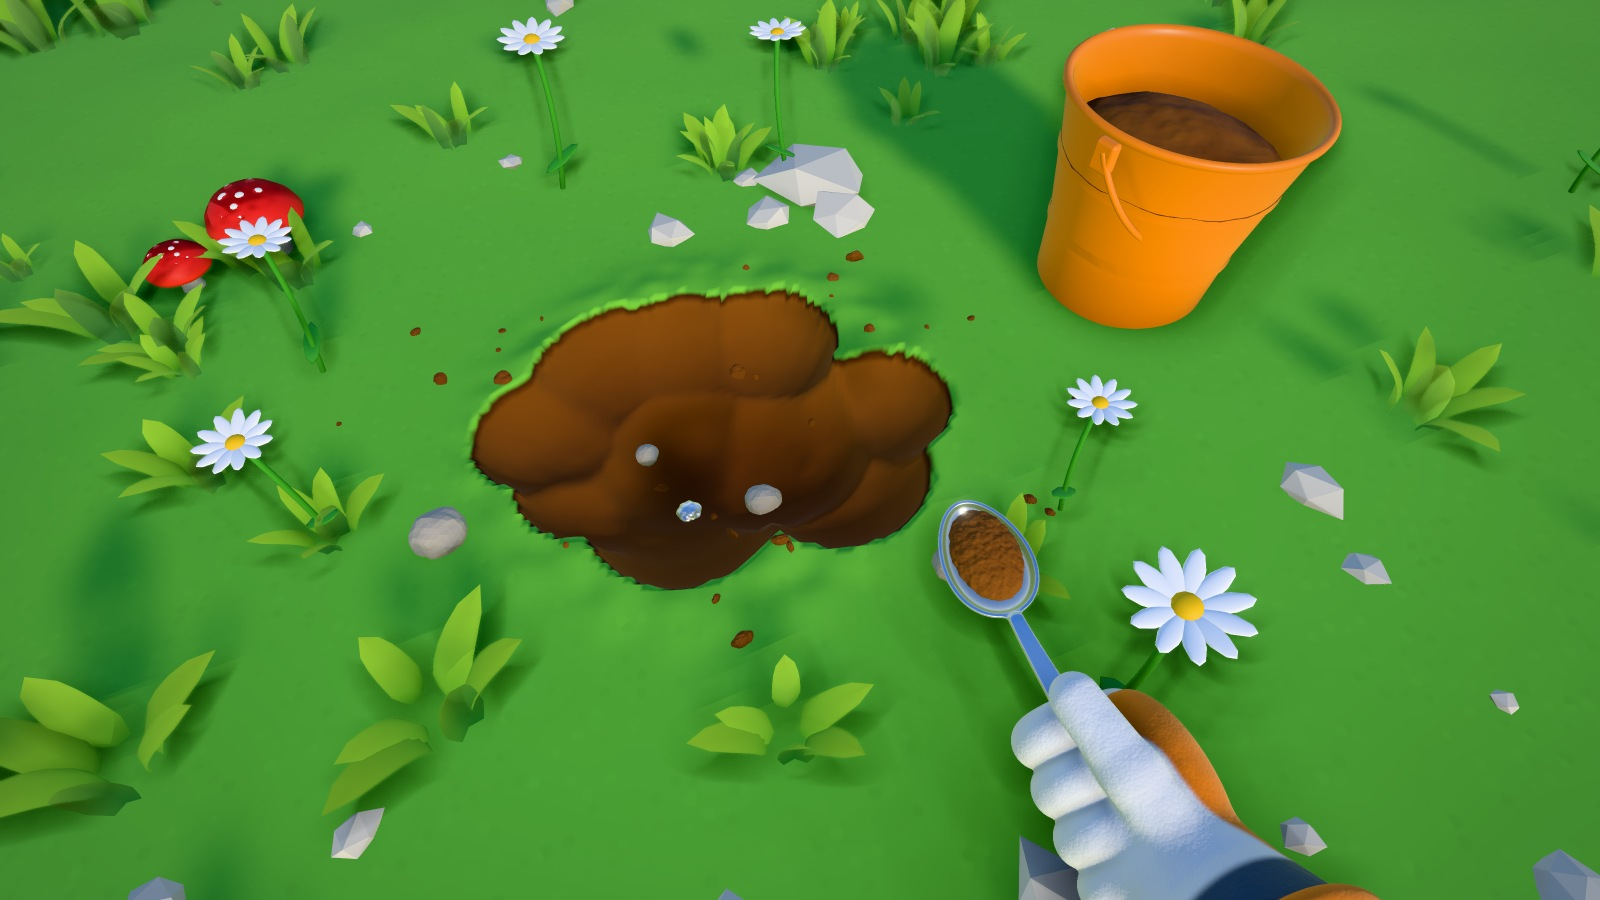
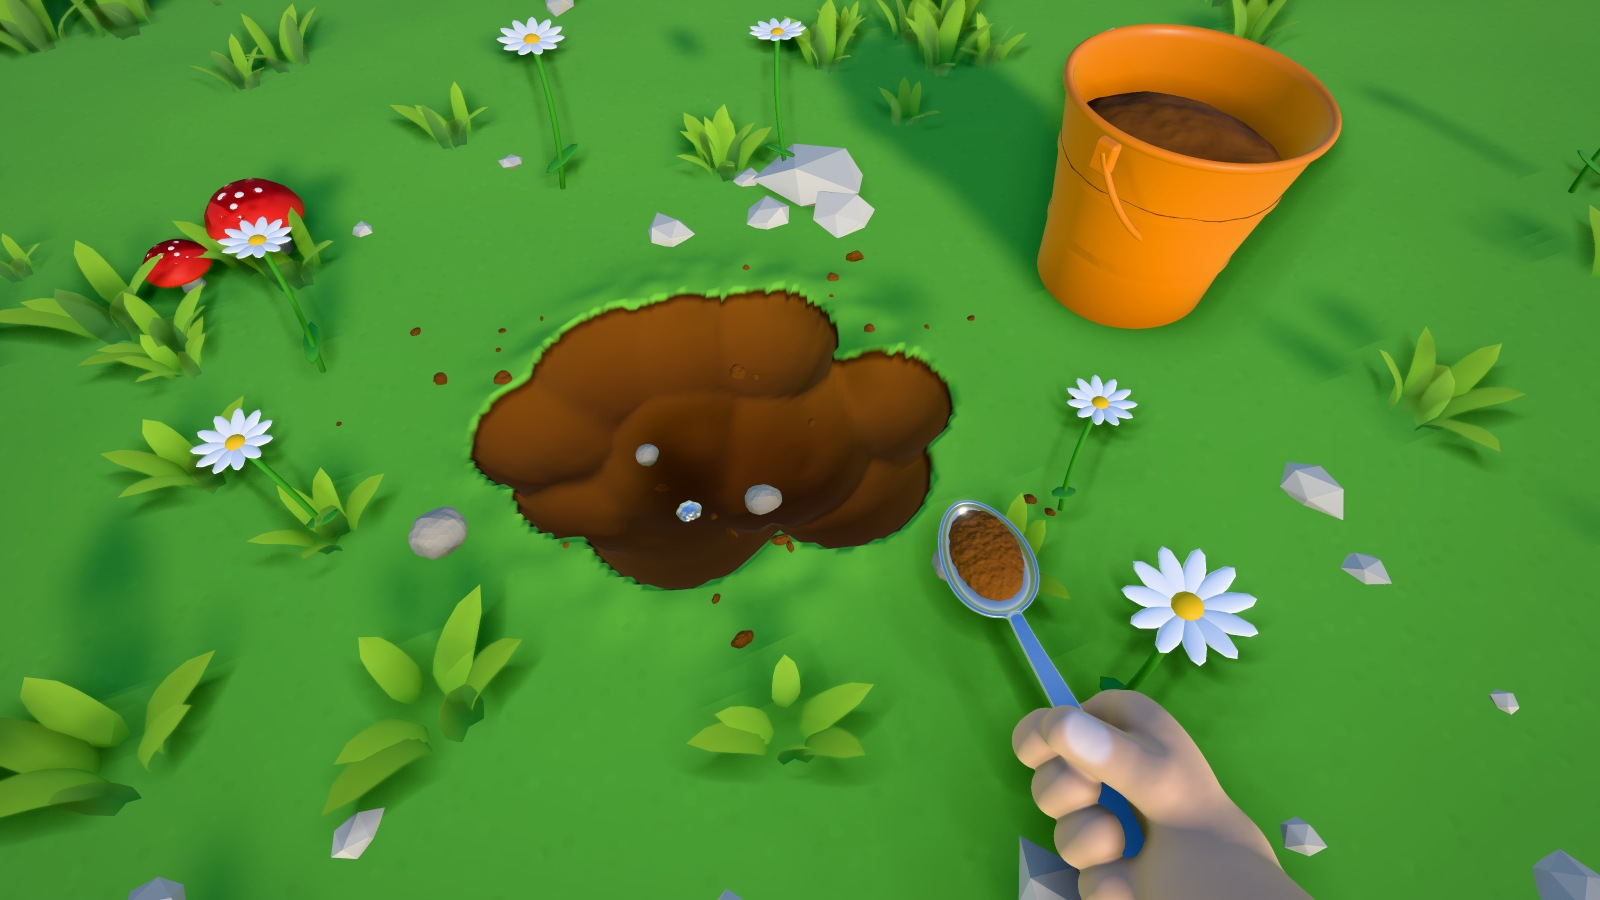
Endless Digging look-dev: bare hand that visibly grips the spoon instead of a glove
Claude-Session: https://claude.ai/code/session_01GYaWwV9t9vHY2oQp28BKGx

Changed region(s): [[0.625, 0.7467, 0.875, 1.0]]

diff --git a/endless-digging/lookdev/assets.js b/endless-digging/lookdev/assets.js
@@ -24,58 +24,54 @@
   const HAND = { w: (() => { const v = [0.10, 0.60, 0.79], l = Math.hypot(v[0], v[1], v[2]); return v.map(c => c / l); })(), Wc: [0.012, 0.022, 0.048], G: 1.16, SP: 1.32 };
   A.HAND = HAND;
   A.glove = function (pal) {
-    // fingers wrap around the handle as arcs that end in fingertips on the side facing the eye;
-    // the thumb lies along the handle, the back of the hand is a separate coloured panel, the cuff is a dark band
-    const fz = [-0.0335, -0.0112, 0.0108, 0.0312], fr = [0.0122, 0.0128, 0.0124, 0.0112], tip = [0.10, -0.04, 0.02, 0.16], R = 0.0200, w = HAND.w, W0 = HAND.Wc, G = HAND.G;
-    const A0 = -250 * PI / 180, A1 = -18 * PI / 180;
-    const c0 = [W0[0] + w[0] * 0.006, W0[1] + w[1] * 0.006, W0[2] + w[2] * 0.006], c1 = [W0[0] + w[0] * 0.088, W0[1] + w[1] * 0.088, W0[2] + w[2] * 0.088], cs = [W0[0] + w[0] * 0.04, W0[1] + w[1] * 0.04, W0[2] + w[2] * 0.04];
+    // a bare hand gripping the spoon: fingers wrap round the handle and stop short, so the handle shows in the gap
+    // between the fingertips and the ball of the thumb; the thumb crosses over the handle and rests on the index finger
+    const fz = [-0.0335, -0.0112, 0.0108, 0.0312], fr = [0.0118, 0.0124, 0.0120, 0.0108], tip = [0.0, -0.06, -0.02, 0.10], R = 0.0200, w = HAND.w, W0 = HAND.Wc, G = HAND.G;
+    const A0 = -212 * PI / 180, A1 = -18 * PI / 180;
+    const c0 = [W0[0] + w[0] * 0.0, W0[1] + w[1] * 0.0, W0[2] + w[2] * 0.0], c1 = [W0[0] + w[0] * 0.11, W0[1] + w[1] * 0.11, W0[2] + w[2] * 0.11];
     const fingers = function (x, y, z) {
-      let ph = Math.atan2(y, x); if (ph > 0.8) ph -= 6.2832;
+      let ph = Math.atan2(y, x); if (ph > 1.2) ph -= 6.2832;
       let d = 0;
-      for (let i = 0; i < 4; i++) { const a0 = A0 + tip[i], pc = ph < a0 ? a0 : ph > A1 ? A1 : ph, dx = x - R * cos(pc), dy = y - R * sin(pc), dz = z - fz[i], di = sqrt(dx * dx + dy * dy + dz * dz) - fr[i]; d = i ? S.smin(d, di, 0.0028) : di; }
+      for (let i = 0; i < 4; i++) { const a0 = A0 + tip[i], pc = ph < a0 ? a0 : ph > A1 ? A1 : ph, dx = x - R * cos(pc), dy = y - R * sin(pc), dz = z - fz[i], di = sqrt(dx * dx + dy * dy + dz * dz) - fr[i]; d = i ? S.smin(d, di, 0.0026) : di; }
       return d;
     };
-    const back = (x, y, z) => S.ellipsoid(x, y, z, 0.0225, 0.010, 0.004, 0.0195, 0.031, 0.045);
+    const back = (x, y, z) => S.ellipsoid(x, y, z, 0.0235, 0.008, 0.004, 0.0185, 0.029, 0.045);
     const thumb = function (x, y, z) {
-      let d = S.cone(x, y, z, 0.010, 0.030, 0.030, 0.002, 0.0375, -0.004, 0.0150, 0.0128);
-      return S.smin(d, S.cone(x, y, z, 0.002, 0.0375, -0.004, -0.006, 0.0385, -0.040, 0.0128, 0.0112), 0.004);
+      let d = S.cone(x, y, z, 0.026, 0.020, 0.034, 0.012, 0.0285, 0.000, 0.0150, 0.0125);
+      return S.smin(d, S.cone(x, y, z, 0.012, 0.0285, 0.000, -0.012, 0.0265, -0.030, 0.0125, 0.0108), 0.004);
     };
-    const heel = (x, y, z) => S.smin(S.sphere(x, y, z, 0.006, 0.021, 0.030, 0.0215), S.sphere(x, y, z, 0.013, 0.003, 0.040, 0.0200), 0.012);
-    const cuff = function (x, y, z) {
-      let d = S.cone(x, y, z, c0[0], c0[1], c0[2], c1[0], c1[1], c1[2], 0.0335, 0.0485);
-      d = S.smin(d, S.torus(x, y, z, c1[0], c1[1], c1[2], w[0], w[1], w[2], 0.0485, 0.0062), 0.004);
-      return S.smin(d, S.torus(x, y, z, cs[0], cs[1], cs[2], w[0], w[1], w[2], 0.0405, 0.0048), 0.003);   // strap
-    };
+    const heel = (x, y, z) => S.smin(S.sphere(x, y, z, 0.027, 0.014, 0.034, 0.0200), S.sphere(x, y, z, 0.016, -0.002, 0.042, 0.0190), 0.012);
+    const wrist = (x, y, z) => S.cone(x, y, z, c0[0], c0[1], c0[2], c1[0], c1[1], c1[2], 0.0285, 0.0320);
     const f0 = function (x, y, z) {
       let d = S.smin(fingers(x, y, z), back(x, y, z), 0.008);
       d = S.smin(d, heel(x, y, z), 0.010);
       d = S.smin(d, thumb(x, y, z), 0.0045);
-      for (let i = 0; i < 4; i++) d = S.smin(d, S.sphere(x, y, z, 0.0215 * cos(A1) + 0.004, 0.0215 * sin(A1) - 0.001, fz[i], 0.0118), 0.005);   // knuckles
-      return S.smin(d, cuff(x, y, z), 0.010);
+      for (let i = 0; i < 4; i++) d = S.smin(d, S.sphere(x, y, z, 0.0215 * cos(A1) + 0.004, 0.0215 * sin(A1) - 0.001, fz[i], 0.0112), 0.005);   // knuckles
+      return S.smin(d, wrist(x, y, z), 0.012);
     };
     const f = (x, y, z) => f0(x / G, y / G, z / G) * G;
-    const main = C(pal.glove), cf = C(pal.gloveCuff), panel = C(pal.glovePad || pal.glove), strap = C(pal.gloveStrap || '#d9dde1');
+    const skin = C(pal.skin || '#eebd98'), nail = C(pal.nail || '#f9dfd2'), blush = C(pal.skinWarm || '#e3a184');
     const m = S.mesh(f, [-0.06 * G, -0.055 * G, -0.062 * G], [0.10 * G, 0.15 * G, 0.19 * G], 0.0012 * G, {
-      ao: 0.45, aoRadius: 0.005,
+      ao: 0.5, aoRadius: 0.005,
       color(x, y, z, nx, ny, nz, out) {
         x /= G; y /= G; z /= G;
-        const t = (x - W0[0]) * w[0] + (y - W0[1]) * w[1] + (z - W0[2]) * w[2];
-        const other = Math.min(fingers(x, y, z), thumb(x, y, z), heel(x, y, z)), kb = S.sstep(-0.0005, 0.0035, other - back(x, y, z)) * S.sstep(0.008, 0.014, x);
-        mixC(main, panel, kb, out);
-        const kc = S.sstep(0.012, 0.0165, t), ks = S.sstep(0.0325, 0.0345, t) * (1 - S.sstep(0.0455, 0.0475, t));
-        out[0] = lerp(out[0], cf.r, kc); out[1] = lerp(out[1], cf.g, kc); out[2] = lerp(out[2], cf.b, kc);
-        out[0] = lerp(out[0], strap.r, ks); out[1] = lerp(out[1], strap.g, ks); out[2] = lerp(out[2], strap.b, ks);
+        // warmer knuckles and fingertips, a pale thumbnail
+        const kn = S.sstep(0.012, 0.0, Math.abs(fingers(x, y, z))) * S.sstep(0.4, 0.9, Math.atan2(y, x) > 1.2 ? 0 : 1) * 0.0;
+        mixC(skin, blush, 0.35 * S.sstep(0.0, 0.9, -ny) + kn, out);
+        const tn = S.sstep(0.0105, 0.007, sqrt((x + 0.008) * (x + 0.008) + (z + 0.024) * (z + 0.024) * 0.55)) * S.sstep(0.3, 0.75, ny) * S.sstep(0.02, 0.03, y);
+        out[0] = lerp(out[0], nail.r, tn); out[1] = lerp(out[1], nail.g, tn); out[2] = lerp(out[2], nail.b, tn);
       }
     });
     return S.geometry(m);
   };
   A.sleeve = function (pal) {
     const w = HAND.w, W0 = HAND.Wc, G = HAND.G, at = t => [W0[0] + w[0] * t, W0[1] + w[1] * t, W0[2] + w[2] * t];
-    const s0 = at(0.045), s1 = at(0.62), folds = [[0.108, 0.02, 0.0], [0.142, -0.03, 0.02], [0.186, 0.015, -0.03]].map(([t, tx, tz]) => {
+    const s0 = at(0.075), s1 = at(0.62), cf = at(0.078), folds = [[0.108, 0.02, 0.0], [0.142, -0.03, 0.02], [0.186, 0.015, -0.03]].map(([t, tx, tz]) => {
       const c = at(t), ax = [w[0] + tx, w[1], w[2] + tz], l = Math.hypot(ax[0], ax[1], ax[2]); return { c, ax: ax.map(v => v / l), R: lerp(0.037, 0.060, (t - 0.045) / 0.575) + 0.001 };
     });
     const f0 = function (x, y, z) {
       let d = S.cone(x, y, z, s0[0], s0[1], s0[2], s1[0], s1[1], s1[2], 0.037, 0.060);
+      d = S.smin(d, S.torus(x, y, z, cf[0], cf[1], cf[2], w[0], w[1], w[2], 0.0375, 0.0065), 0.006);
       for (const fo of folds) d = S.smin(d, S.torus(x, y, z, fo.c[0], fo.c[1], fo.c[2], fo.ax[0], fo.ax[1], fo.ax[2], fo.R, 0.0075), 0.016);
       return d;
     };
@@ -89,7 +85,7 @@
   };
   // Table spoon (scaled up a little, cartoon-style). Returns { spoon, soil } geometries.
   A.spoon = function () {
-    const SP = HAND.SP, a1 = -0.049, r1 = 0.0092, a2 = 0.082, r2 = 0.0036, th = 0.0017, a0 = 0.118, rz = 0.031, rx0 = 0.0212, ry = 0.0125, yr = -0.011;
+    const SP = HAND.SP, a1 = -0.066, r1 = 0.0098, a2 = 0.082, r2 = 0.0036, th = 0.0017, a0 = 0.118, rz = 0.031, rx0 = 0.0212, ry = 0.0125, yr = -0.011;
     const f = function (X, Y, Z) {
       const x = X / SP, y = Y / SP, a = -Z / SP;
       const yc = -0.0125 * S.sstep(0.02, 0.09, a) + 0.0015;
@@ -100,7 +96,7 @@
       const db = S.smax(abs(E) - 0.0011, y - yr, 0.0010);
       return S.smin(dh, db, 0.0045) * SP;
     };
-    const spoon = S.geometry(S.mesh(f, [-0.0245 * SP, -0.0275 * SP, -0.153 * SP], [0.0245 * SP, 0.0065 * SP, 0.061 * SP], 0.00065 * SP, { project: 3 }));
+    const spoon = S.geometry(S.mesh(f, [-0.0245 * SP, -0.0275 * SP, -0.153 * SP], [0.0245 * SP, 0.0065 * SP, 0.080 * SP], 0.00065 * SP, { project: 3 }));
     const fs = function (X, Y, Z) {
       const x = X / SP, y = Y / SP, a = -Z / SP;
       const E = S.ellipsoid(x, y, a, 0.001, yr - 0.0015, a0 + 0.001, 0.0165, 0.0095, 0.0245);

diff --git a/endless-digging/lookdev/look.js b/endless-digging/lookdev/look.js
@@ -262,10 +262,8 @@
   });
   M.tuft = pd(std({ vertexColors: true, roughness: 0.62, side: T.DoubleSide, sheen: 0.12, sheenRoughness: 0.5, sheenColor: C(V.tuft.tip) }), { noFlip: true, color: 'diffuseColor.rgb *= 0.9 + 0.2*pdFbm(P, 0.45, 2).x;' });
   M.flower = std({ vertexColors: true, roughness: 0.6, side: T.DoubleSide });
-  M.glove = pd(std({ vertexColors: true, roughness: 0.62, sheen: 0.25, sheenRoughness: 0.5, sheenColor: C('#fff1d8') }), {
-    space: 'object', color: 'diffuseColor.rgb *= 0.93 + 0.1*pdFbm(P, 45.0, 3).x;',
-    normal: 'vec4 cl = pdCell(P*600.0); G += -2.0*cl.xyz*600.0*0.00012; vec4 n = pdFbm(P, 80.0, 3); G += n.yzw*0.0004;',
-    rough: 'roughnessFactor = clamp(0.6 + 0.12*pdFbm(P, 120.0, 2).x, 0.3, 1.0);'
+  M.glove = pd(std({ vertexColors: true, roughness: 0.55, sheen: 0.35, sheenRoughness: 0.4, sheenColor: C('#ffd9c4') }), {
+    space: 'object', color: 'diffuseColor.rgb *= 0.97 + 0.04*pdFbm(P, 60.0, 2).x;', normal: 'vec4 n = pdFbm(P, 140.0, 2); G += n.yzw*0.00012;'
   });
   M.sleeve = pd(std({ vertexColors: true, roughness: 0.8, sheen: 0.6, sheenRoughness: 0.45, sheenColor: C('#ffd9b0') }), {
     space: 'object', color: 'diffuseColor.rgb *= 0.94 + 0.08*pdFbm(P, 30.0, 2).x;',
